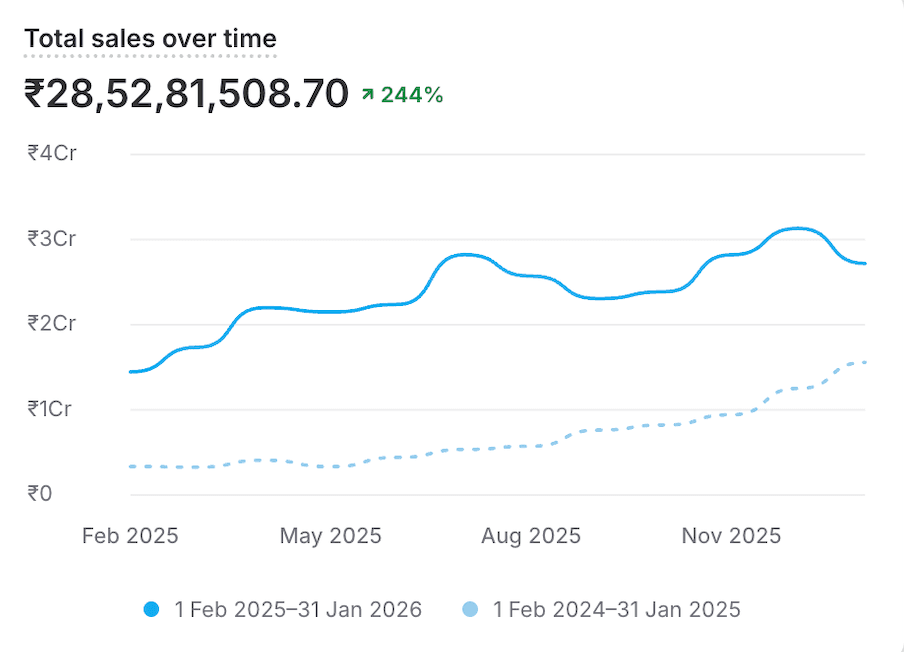
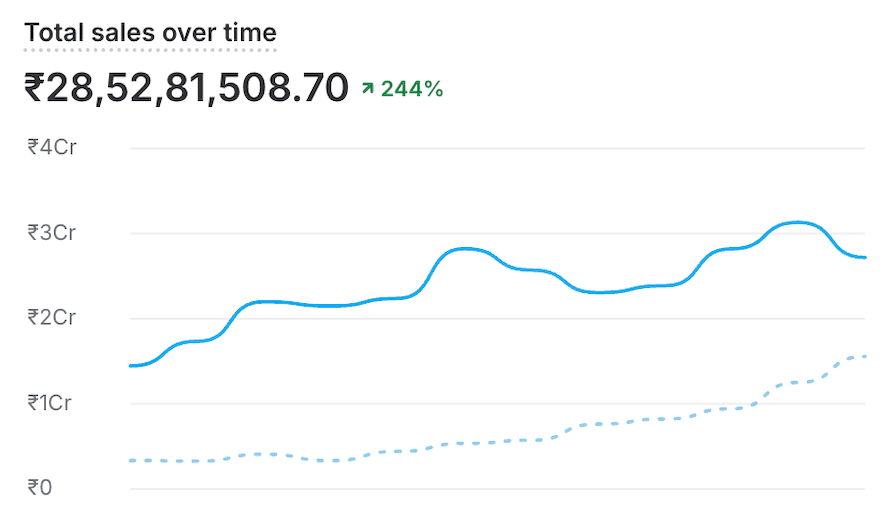
Pain-points chart: trimmed below the ₹0 line so no year shows; image fit = contain

diff --git a/index.html b/index.html
@@ -807,7 +807,7 @@ a { color: inherit; text-decoration: none; }
   border-radius: 8px;
   width: 100%;
   height: 100%;
-  object-fit: cover;
+  object-fit: contain;   /* chart trimmed below the ₹0 line (no years on it); contain so the sides never crop */
   object-position: center;
 }
 
